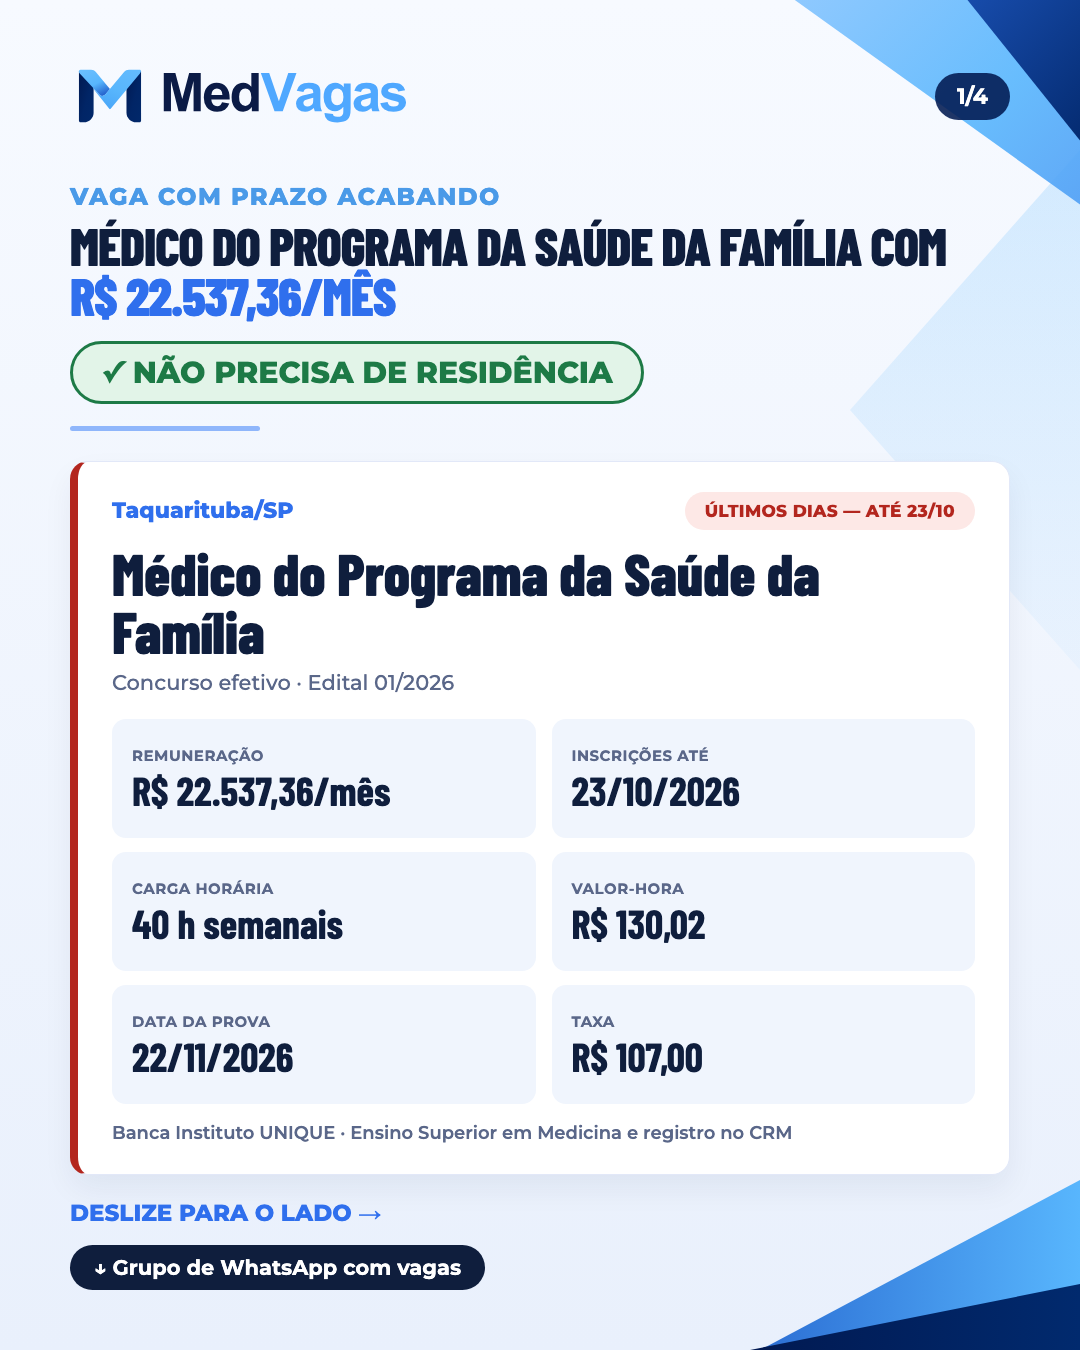
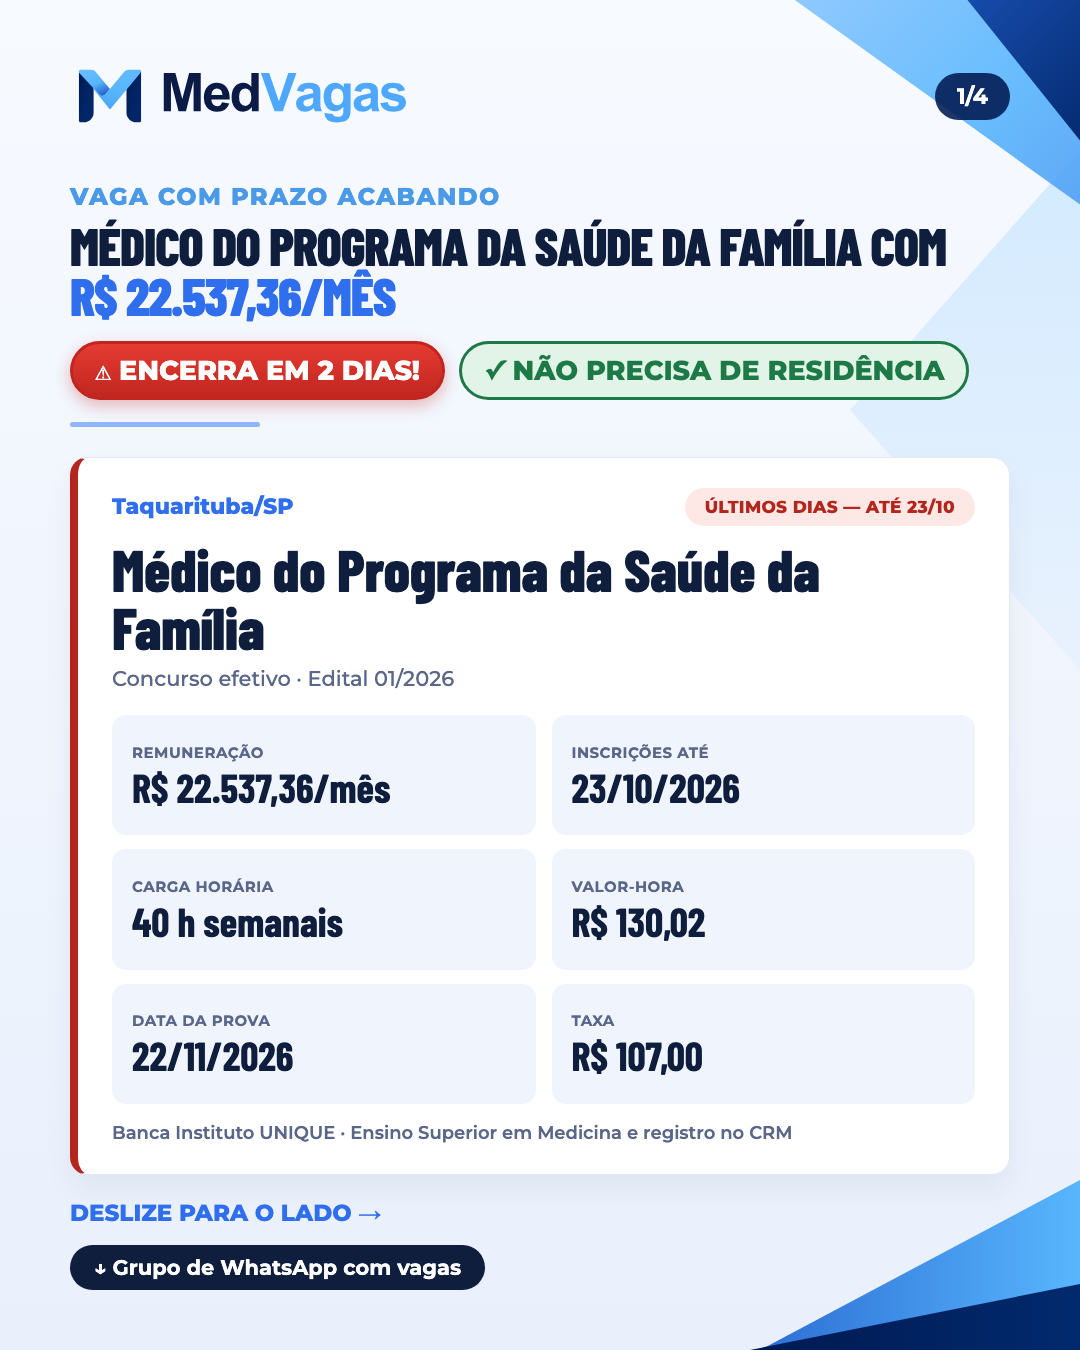
Card: selo 'ENCERRA EM N DIAS' (até 3 dias) ao lado do selo de residência; slides do post de Taquarituba
Claude-Session: https://claude.ai/code/session_01DpjGY23wsrCTdZNKpd88XH

diff --git a/src/notifica_vagas_scraper/instagram/card.py b/src/notifica_vagas_scraper/instagram/card.py
@@ -210,7 +210,9 @@ def _slide1(vaga: dict[str, Any], tipo: str, hoje: date) -> str:
     selo = rotulo_prazo(vaga.get("inscricoes_fim"), hoje).upper() if urgente else "INSCRIÇÕES ABERTAS"
     fim = vaga.get("inscricoes_fim")
     dias_fim = (fim - hoje).days if fim else None
-    alerta = {0: "ENCERRA HOJE!", 1: "ENCERRA AMANHÃ!"}.get(dias_fim) if urgente else None
+    alerta = None
+    if urgente and dias_fim is not None and 0 <= dias_fim <= 3:
+        alerta = {0: "ENCERRA HOJE!", 1: "ENCERRA AMANHÃ!"}.get(dias_fim, f"ENCERRA EM {dias_fim} DIAS!")
 
     titulo = especialidade_curta(vaga["cargo"]).upper()
     if vaga.get("salario") is not None:
@@ -258,24 +260,27 @@ border-left:8px solid var(--cor);padding:30px 34px;box-shadow:0 14px 30px rgba(1
 .rodapec{margin-top:18px;font-size:18px;font-weight:600;color:#5a6789}
 .deslize{margin-top:0;font-size:23px;font-weight:800;color:#2f6fed;display:flex;align-items:center;gap:10px}
 .deslize .barra{margin-top:6px;width:210px;height:5px;border-radius:3px;background:#8fb6fb}
-.alerta{margin-top:26px;width:fit-content;display:flex;align-items:center;gap:16px;padding:12px 28px;border-radius:14px;
-background:linear-gradient(180deg,#e53b32,#c0261f);color:#fff;font-size:46px;font-weight:800;letter-spacing:.5px;box-shadow:0 10px 24px rgba(192,38,31,.35)}
-.alerta svg{flex:none}
+.alerta{margin-top:26px;width:fit-content;display:flex;align-items:center;gap:16px;padding:14px 30px;border-radius:16px;
+background:linear-gradient(180deg,#e53b32,#c0261f);color:#fff;font-size:54px;line-height:1;font-weight:800;letter-spacing:.5px;box-shadow:0 10px 24px rgba(192,38,31,.35)}
+.selos{margin-top:20px;display:flex;gap:14px;align-items:center;flex-wrap:nowrap}
+.pilula{width:fit-content;border-radius:999px;padding:10px 22px;font-size:27px;font-weight:800;white-space:nowrap}
 .zap{margin-top:18px;width:fit-content;background:#0f1e3d;color:#fff;border-radius:999px;padding:10px 24px;font-size:21px;font-weight:700}
 """
-    if alerta:
-        tam = int(tam * 0.85)  # o selo de urgência ocupa espaço: título menor para o card caber inteiro
-        triangulo = ('<svg width="48" height="48" viewBox="0 0 24 24" fill="#fff"><path d="M12 2 1 21h22z"/>'
-                     '<path d="M12 9v6" stroke="#c0261f" stroke-width="2.4" stroke-linecap="round"/>'
-                     '<circle cx="12" cy="18" r="1.3" fill="#c0261f"/></svg>')
-        cabecalho_titulo = (f'<div class="alerta">{triangulo}{escape(alerta)}</div>'
-                            f'<div class="eyebrow" style="margin-top:16px">VAGA DESTAQUE DO DIA</div>')
-    else:
-        cabecalho_titulo = f'<div class="eyebrow">{escape(eyebrow)}</div>'
+    cabecalho_titulo = f'<div class="eyebrow">{escape(eyebrow)}</div>'
+    pilula_residencia = (
+        '<div class="pilula" style="background:#e2f4e8;color:#1d7a46;border:3px solid #1d7a46">✓ NÃO PRECISA DE RESIDÊNCIA</div>'
+        if vaga.get("sem_residencia") else ""
+    )
+    pilula_alerta = (
+        '<div class="pilula" style="background:linear-gradient(180deg,#e53b32,#c0261f);color:#fff;border:3px solid #c0261f;'
+        f'box-shadow:0 6px 16px rgba(192,38,31,.3)">⚠ {escape(alerta)}</div>'
+        if alerta else ""
+    )
+    faixa_selos = f'<div class="selos">{pilula_alerta}{pilula_residencia}</div>' if (alerta or pilula_residencia) else ""
     corpo = f"""{_cabecalho(1)}
 {cabecalho_titulo}
 <h1 style="font-size:{tam}px"><span class="navy">{escape(linha1)}</span><br><span class="azul">{escape(linha2)}</span></h1>
-<div class="divisor"></div>
+{faixa_selos}<div class="divisor"></div>
 <div class="card" style="--cor:{cor};--fundo:{fundo}">
   <div class="linha1"><div class="local">{escape(vaga['municipio'])}/{escape(vaga['uf'])}</div><div class="selo">{escape(selo)}</div></div>
   <h2>{escape(vaga['cargo'])}</h2>
